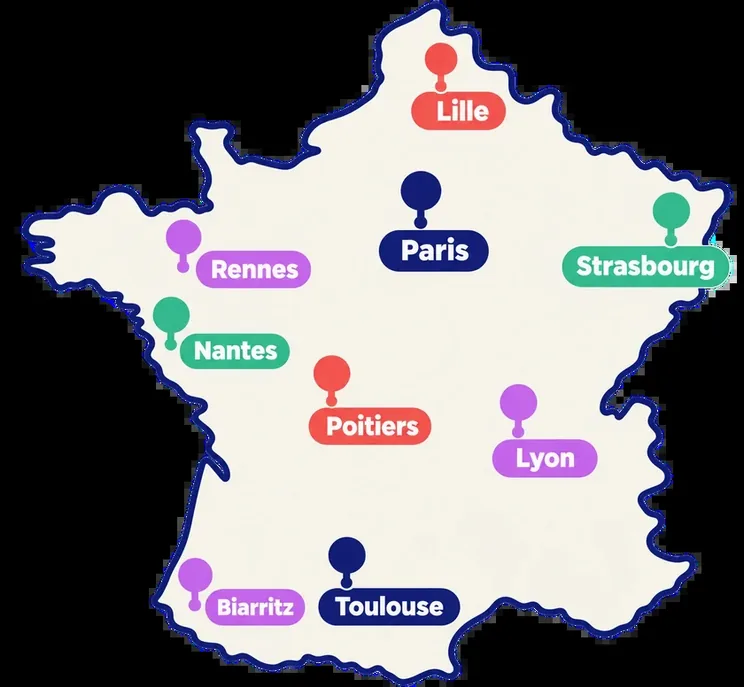
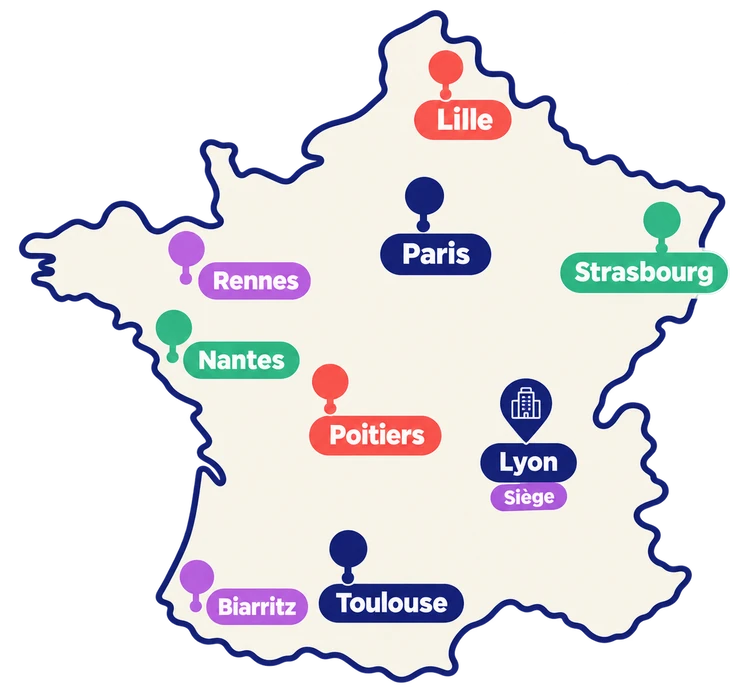
fix(contact): merge sidebar cards into one card and add antennas map
The E-mail, Siège, LinkedIn and about-Yeeso cards were four separate
boxes with inconsistent horizontal alignment (the plain-div "Siège"
card wasn't centered like the StyledLink-based cards). Combine them
into a single contact-info-card with icon-chip rows and dividers, and
surface the antennas map (with a link to see them all) below LinkedIn
so visitors aren't left thinking Lyon is the only place to find us.

Also swaps in an updated, transparent-background export of the
antennas map (optimized to WebP) so it drops onto any card background
without a baked-in black rectangle; same file names, so the About page
antennas section picks it up too.

diff --git a/src/ui-kit/pages/Contact/ContactPage.tsx b/src/ui-kit/pages/Contact/ContactPage.tsx
@@ -1,12 +1,15 @@
 import { faLinkedin } from "@fortawesome/free-brands-svg-icons";
 import { faEnvelope, faLocationDot } from "@fortawesome/free-solid-svg-icons";
 import { FontAwesomeIcon } from "@fortawesome/react-fontawesome";
+import { ANTENNA_LEADERS } from "@/config/antenna-leaders";
 import { CONTACT_EMAIL, LINKEDIN_URL } from "@/config/social-links";
 import { StyledLink } from "@/ui-kit/components/molecules/StyledLink/StyledLink";
 import { ContactForm } from "@/ui-kit/components/organisms/ContactForm/ContactForm";
 import { MembershipCallout } from "@/ui-kit/components/templates/MembershipCallout/MembershipCallout";
 import { PageHeader } from "@/ui-kit/components/templates/PageHeader/PageHeader";
 import "./ContactPage.css";
+
+const basePath = process.env.PAGES_BASE_PATH ?? "";
 
 export const ContactPage = () => {
   return (
@@ -24,32 +27,60 @@ export const ContactPage = () => {
             <div className="contact-page__grid">
               <ContactForm />
 
-              <div className="contact-page__info">
+              <div className="contact-info-card">
                 <StyledLink
                   href={`mailto:${CONTACT_EMAIL}`}
-                  className="contact-card contact-card--green"
+                  className="contact-info-card__row"
                 >
-                  <FontAwesomeIcon icon={faEnvelope} aria-hidden />
-                  <span className="contact-card__label">E-mail</span>
-                  <strong>{CONTACT_EMAIL}</strong>
+                  <span className="contact-info-card__icon contact-info-card__icon--green">
+                    <FontAwesomeIcon icon={faEnvelope} aria-hidden />
+                  </span>
+                  <span className="contact-info-card__row-text">
+                    <span className="contact-info-card__label">E-mail</span>
+                    <strong>{CONTACT_EMAIL}</strong>
+                  </span>
                 </StyledLink>
 
-                <div className="contact-card contact-card--purple">
-                  <FontAwesomeIcon icon={faLocationDot} aria-hidden />
-                  <span className="contact-card__label">Siège</span>
-                  <strong>Lyon, France</strong>
+                <div className="contact-info-card__row">
+                  <span className="contact-info-card__icon contact-info-card__icon--purple">
+                    <FontAwesomeIcon icon={faLocationDot} aria-hidden />
+                  </span>
+                  <span className="contact-info-card__row-text">
+                    <span className="contact-info-card__label">Siège</span>
+                    <strong>Lyon, France</strong>
+                  </span>
                 </div>
 
                 <StyledLink
                   href={LINKEDIN_URL}
-                  className="contact-card contact-card--orange"
+                  className="contact-info-card__row"
                 >
-                  <FontAwesomeIcon icon={faLinkedin} aria-hidden />
-                  <span className="contact-card__label">LinkedIn</span>
-                  <strong>Yeeso</strong>
+                  <span className="contact-info-card__icon contact-info-card__icon--orange">
+                    <FontAwesomeIcon icon={faLinkedin} aria-hidden />
+                  </span>
+                  <span className="contact-info-card__row-text">
+                    <span className="contact-info-card__label">LinkedIn</span>
+                    <strong>Yeeso</strong>
+                  </span>
                 </StyledLink>
 
-                <div className="contact-card">
+                <div className="contact-info-card__map">
+                  <img
+                    className="contact-info-card__map-img"
+                    src={`${basePath}/img/carte-antennes-sm.webp`}
+                    alt={`Carte de France situant les ${ANTENNA_LEADERS.length} antennes de Yeeso.`}
+                    width={744}
+                    height={687}
+                  />
+                  <p className="contact-info-card__map-caption">
+                    {ANTENNA_LEADERS.length} antennes partout en France
+                  </p>
+                  <StyledLink href="/a-propos#antennes">
+                    Voir toutes nos antennes
+                  </StyledLink>
+                </div>
+
+                <div className="contact-info-card__about">
                   <strong>Yeeso</strong>
                   <p>
                     Association loi 1901 à but non lucratif, dédiée à la

diff --git a/src/ui-kit/pages/Contact/ContactPage.css b/src/ui-kit/pages/Contact/ContactPage.css
@@ -14,71 +14,128 @@
 .contact-page__info {
   display: flex;
   flex-direction: column;
-  gap: 1.25rem;
 }
 
-.contact-card {
+/* Background is fixed white regardless of theme (like .program-card), so
+   text/link colors here are pinned too rather than using the theme-reactive
+   --font-color, which would turn illegible on a permanently white card. */
+.contact-info-card {
   display: flex;
   flex-direction: column;
-  gap: 0.4rem;
-  padding: 1.5rem;
   border-radius: var(--br-normal);
-  text-decoration: none;
+  background: var(--color-light);
+  color: var(--color-dark);
+  overflow: hidden;
 
-  p {
-    margin: 0;
-    font-size: 0.9rem;
+  a,
+  a:visited,
+  a:hover {
+    color: var(--color-dark);
   }
 }
 
-a.contact-card {
-  color: var(--color-dark);
+.contact-info-card > * {
+  border-bottom: 1px solid rgba(0, 0, 0, 0.08);
 }
 
-a.contact-card:visited,
-a.contact-card:hover {
-  color: var(--color-dark);
+.contact-info-card > *:last-child {
+  border-bottom: none;
+}
+
+.contact-info-card__row {
+  display: flex;
+  align-items: center;
+  justify-content: flex-start;
+  gap: 1rem;
+  padding: 1.25rem 1.5rem;
+  text-decoration: none;
 }
 
 /* Color doesn't change on hover (fixed-safe value already), so hover/focus
    need a non-color affordance. Fixed outline color too: the global
    `a:focus-visible` outline uses --color-primary-strong, a light tint in
-   dark theme — invisible against these light accent-tint card backgrounds. */
-a.contact-card:hover {
+   dark theme — invisible against this permanently white card. */
+a.contact-info-card__row:hover {
+  background: rgba(0, 0, 0, 0.03);
   text-decoration: underline;
 }
 
-a.contact-card:focus-visible {
+a.contact-info-card__row:focus-visible {
   outline: 2px solid var(--color-dark);
   outline-offset: 2px;
 }
 
-.contact-card--green {
+.contact-info-card__icon {
+  display: inline-flex;
+  align-items: center;
+  justify-content: center;
+  flex-shrink: 0;
+  width: 2.5rem;
+  height: 2.5rem;
+  border-radius: var(--br-circle);
+  font-size: 1.05rem;
+}
+
+.contact-info-card__icon--green {
   background: var(--color-lightgreen);
-  color: var(--color-dark);
 }
 
-.contact-card--purple {
+.contact-info-card__icon--purple {
   background: var(--color-lightpurple);
-  color: var(--color-dark);
 }
 
-.contact-card--orange {
+.contact-info-card__icon--orange {
   /* --color-lightorange (#e77169) is too saturated to carry AAA-compliant
-     text, so this card uses a pastel tint instead of the full accent. */
+     text, so this chip uses a pastel tint instead of the full accent. */
   background: var(--yeeso-coral-tint);
-  color: var(--color-dark);
-
-  svg {
-    color: var(--color-lightorange);
-  }
+  color: var(--color-lightorange);
 }
 
-.contact-card__label {
+.contact-info-card__row-text {
+  display: flex;
+  flex-direction: column;
+  gap: 0.2rem;
+  text-align: left;
+}
+
+.contact-info-card__label {
   font-size: 0.75rem;
   font-weight: 800;
   text-transform: uppercase;
   letter-spacing: 0.05em;
+}
+
+.contact-info-card__map {
+  display: flex;
+  flex-direction: column;
+  align-items: center;
+  gap: 0.4rem;
+  padding: 1.25rem 1.5rem;
+  text-align: center;
+}
+
+.contact-info-card__map-img {
+  width: 100%;
+  max-width: 280px;
+  height: auto;
+}
+
+.contact-info-card__map-caption {
+  margin: 0;
+  font-size: 0.85rem;
+  font-weight: 700;
+}
+
+.contact-info-card__about {
+  display: flex;
+  flex-direction: column;
+  gap: 0.4rem;
+  padding: 1.5rem;
+
+  p {
+    margin: 0 0 0.4rem;
+    font-size: 0.9rem;
+  }
 }
 
 @media screen and (min-width: 992px) {
